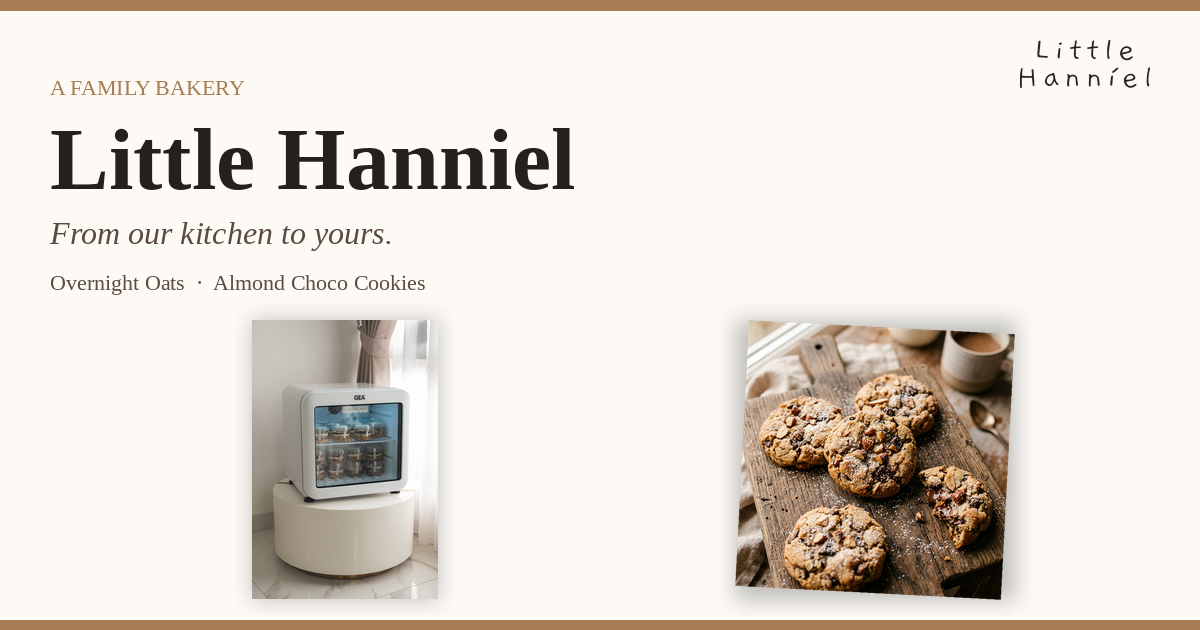
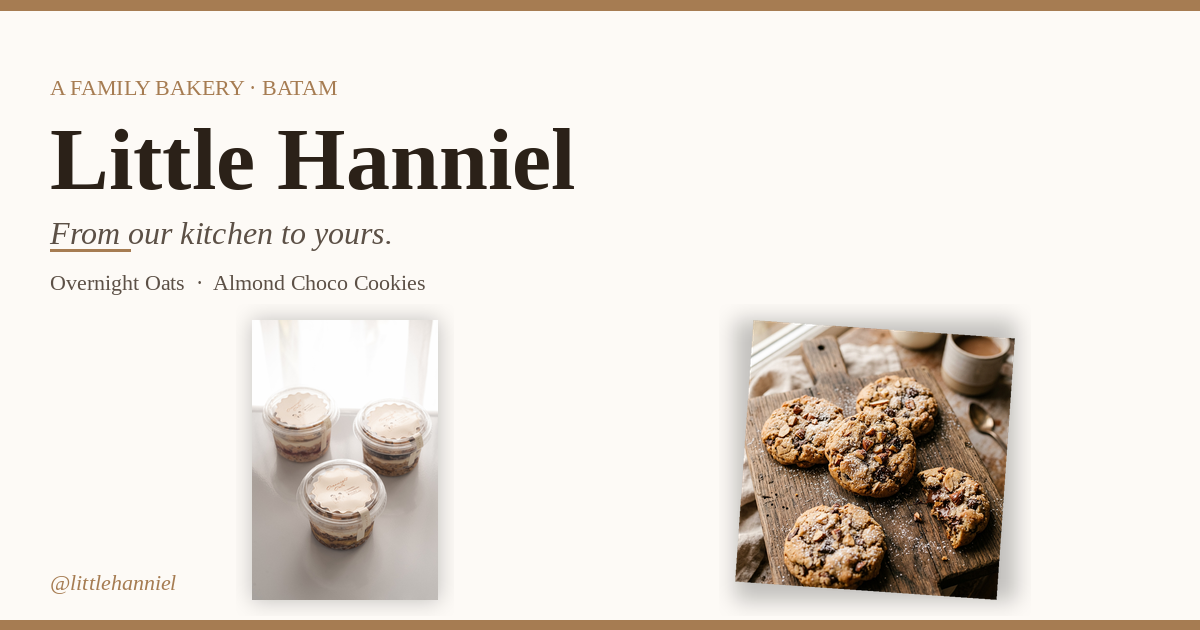
feat(tier-2): refresh OG share card — product trio + cookies, no fridge shot

diff --git a/index.html b/index.html
@@ -17,7 +17,7 @@
     <meta property="og:title" content="Little Hanniel — From Our Kitchen to Yours">
     <meta property="og:description" content="A family home bakery in Batam, Indonesia. Freshly made Overnight Oats (Tiramisu, Strawberry, Double Chocolate) and Almond Choco Cookies, baked to order.">
     <meta property="og:url" content="https://little.hanniel.co/">
-    <meta property="og:image" content="https://little.hanniel.co/assets/og-default.png">
+    <meta property="og:image" content="https://little.hanniel.co/assets/og-default.png?v=2">
     <meta property="og:image:width" content="1200">
     <meta property="og:image:height" content="630">
     <meta property="og:image:alt" content="Little Hanniel — from our kitchen to yours. Overnight Oats and Almond Choco Cookies.">
@@ -27,7 +27,7 @@
     <meta name="twitter:card" content="summary_large_image">
     <meta name="twitter:title" content="Little Hanniel — From Our Kitchen to Yours">
     <meta name="twitter:description" content="Freshly made Overnight Oats and Almond Choco Cookies, baked to order in Batam.">
-    <meta name="twitter:image" content="https://little.hanniel.co/assets/og-default.png">
+    <meta name="twitter:image" content="https://little.hanniel.co/assets/og-default.png?v=2">
     <meta name="twitter:image:alt" content="Little Hanniel — overnight oats and almond choco cookies.">
 
     <link rel="preconnect" href="https://fonts.googleapis.com">
